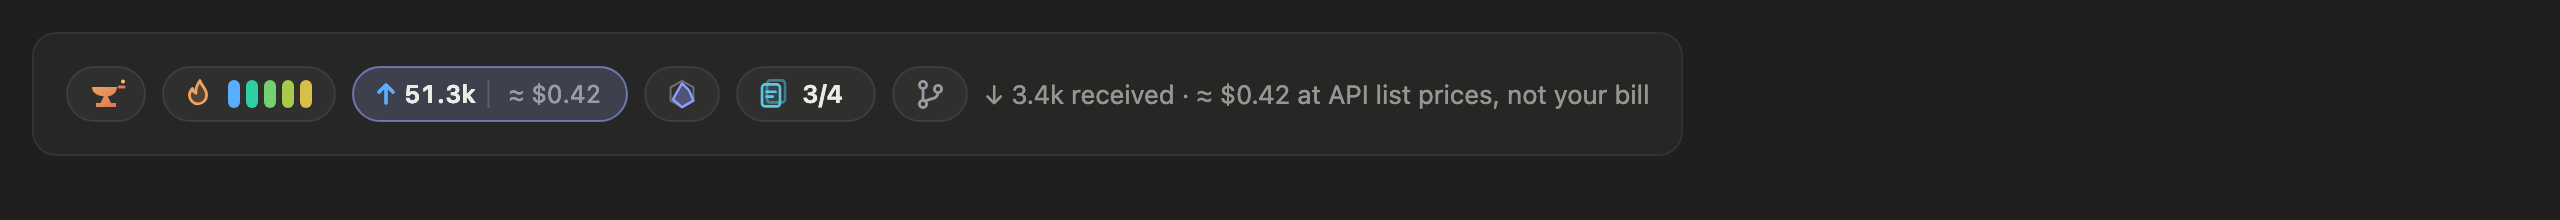
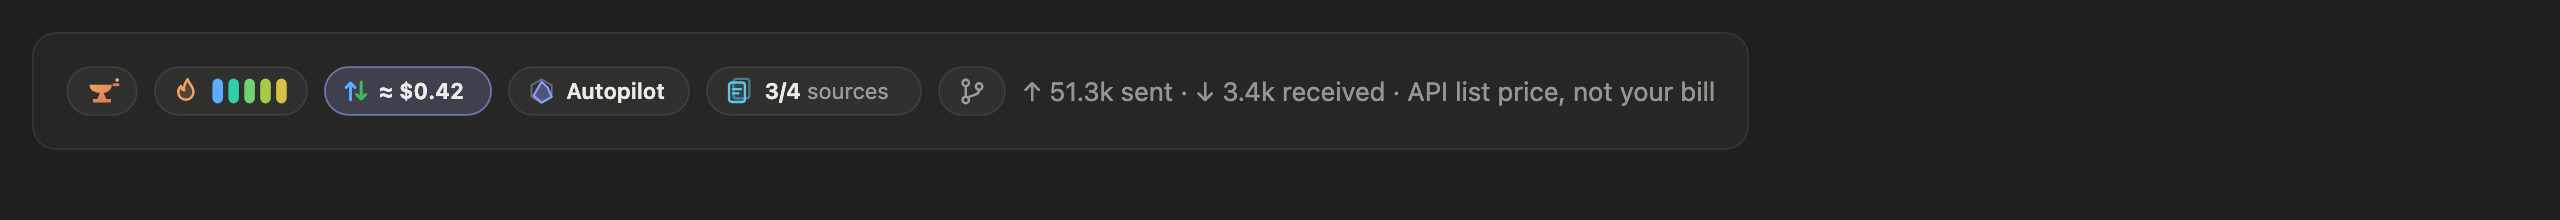
Rail: slimmer pills; the tokens pill shows the cost alone
Every pill is shown at 0.88 of its drawing, about 24px tall, so the full
rail is about 590px instead of 790. The tokens pill shows a small up and
down glyph and the cost; the tokens sent and received are in its
caption, with the note that the cost is API list price.

Changed region(s): [[0.0312, 0.3, 0.6875, 0.5727], [0.3438, 0.3, 0.375, 0.3273], [0.3125, 0.5455, 0.3438, 0.5727]]

diff --git a/hooks/rail-art.ts b/hooks/rail-art.ts
@@ -25,6 +25,9 @@ export type RailArtFigures = {
 }
 
 const HEIGHT = 28
+// The pills are drawn at 28px and shown at 0.88 of that, icons and words
+// alike, so the rail stays a slim row beside the composer.
+const SCALE = 0.88
 const SANS = `-apple-system, BlinkMacSystemFont, 'SF Pro Text', system-ui, sans-serif`
 const ROUNDED = `ui-rounded, 'SF Pro Rounded', -apple-system, system-ui, sans-serif`
 const BARS = ['#5aaeff', '#2fcfa6', '#74d16f', '#a8c94a', '#d8bf45']
@@ -51,11 +54,9 @@ function compact(count: number): string {
   return String(count)
 }
 
-// Sent tokens go up (blue), received come down (green).
-function arrow(x: number, mid: number, isUp: boolean): string {
-  const color = isUp ? '#5aaeff' : '#3fb950'
-  const path = isUp ? 'M5 11V2M1.5 5.5 5 2l3.5 3.5' : 'M5 2v9M1.5 7.5 5 11l3.5-3.5'
-  return `<path transform="translate(${x} ${mid - 6.5})" d="${path}" fill="none" stroke="${color}" stroke-width="1.6" stroke-linecap="round" stroke-linejoin="round"/>`
+// Tokens both ways, as one glyph: up (blue) beside down (green).
+function updown(x: number, mid: number): string {
+  return `<path transform="translate(${x} ${mid - 6})" d="M3 11V1.5M.5 4 3 1.5 5.5 4" fill="none" stroke="#5aaeff" stroke-width="1.5" stroke-linecap="round" stroke-linejoin="round"/><path transform="translate(${x + 6} ${mid - 6})" d="M3 1v9.5M.5 8 3 10.5 5.5 8" fill="none" stroke="#3fb950" stroke-width="1.5" stroke-linecap="round" stroke-linejoin="round"/>`
 }
 
 function anvil(x: number, y: number): string {
@@ -87,9 +88,9 @@ function branch(x: number, y: number, isOn: boolean): string {
 }
 
 // The pills that can give up their words for the rail to fit one row, in the
-// order they do: four to their icon, then the tokens to what was sent and the
-// cost (what came back moves to the caption). The cache gauge never does.
-export const COMPACTABLE = ['brand', 'worktree', 'sources', 'dials', 'tokens'] as const
+// order they do, down to their icon (sources to its count). The cache gauge
+// and the cost never do.
+export const COMPACTABLE = ['brand', 'worktree', 'sources', 'dials'] as const
 export type Compactable = (typeof COMPACTABLE)[number]
 
 export function railArt(figures: RailArtFigures, iconOnly: ReadonlySet<Compactable> = new Set()): RailPill[] {
@@ -98,13 +99,15 @@ export function railArt(figures: RailArtFigures, iconOnly: ReadonlySet<Compactab
 
   const pill = (id: string, width: number, tab: RailPill['tab'], caption: string, draw: (left: number) => string) => {
     const whole = Math.ceil(width)
+    const shown = Math.ceil(whole * SCALE)
+    const tall = Math.round(HEIGHT * SCALE)
     const svg = (isHot: boolean) => {
       const inner = `<rect x="0.5" y="0.5" width="${whole - 1}" height="${HEIGHT - 1}" rx="${(HEIGHT - 1) / 2}" class="pill${isHot ? ' hot' : ''}"/>${draw(0)}`
       // Theme colours are custom properties, which a presentation attribute
       // does not read everywhere; a style declaration does.
-      return `<svg xmlns="http://www.w3.org/2000/svg" width="${whole}" height="${HEIGHT}" viewBox="0 0 ${whole} ${HEIGHT}">${STYLE}${DEFS}${paint(inner)}</svg>`
+      return `<svg xmlns="http://www.w3.org/2000/svg" width="${shown}" height="${tall}" viewBox="0 0 ${whole} ${HEIGHT}">${STYLE}${DEFS}${paint(inner)}</svg>`
     }
-    pills.push({ id, tab, caption, width: whole, height: HEIGHT, source: svg(false), hotSource: svg(true) })
+    pills.push({ id, tab, caption, width: shown, height: tall, source: svg(false), hotSource: svg(true) })
   }
 
   {
@@ -134,21 +137,12 @@ export function railArt(figures: RailArtFigures, iconOnly: ReadonlySet<Compactab
     const sent = compact(figures.tokens.input)
     const received = compact(figures.tokens.output)
     const cost = figures.costUsd === null ? null : `≈ $${figures.costUsd.toFixed(2)}`
-    const isShort = iconOnly.has('tokens')
-    const outX = 12 + 14 + textWidth(sent, 12.5, true) + 12
-    const costX = isShort ? outX : outX + 14 + textWidth(received, 12.5, true) + 10
-    const width = (cost === null ? costX - 10 : costX + 10 + textWidth(cost, 12.5)) + 12
-    const caption = isShort
-      ? `↓ ${received} received` + (cost === null ? '' : ` · ${cost} at API list prices, not your bill`)
-      : cost === null
-        ? `${sent} tokens sent, ${received} received`
-        : `${cost} at API list prices, not your bill`
-    pill('tokens', width, 'context', caption, left => {
-      const text = (x: number, value: string) => `<text x="${left + x}" y="${mid + 4.4}" font-family="${SANS}" font-size="12.5" font-weight="600" fill="var(--text)" class="num">${value}</text>`
-      const spend = cost === null ? '' : `<rect x="${left + costX - 0.5}" y="${mid - 7}" width="1" height="14" fill="var(--pillLine)"/><text x="${left + costX + 10}" y="${mid + 4.4}" font-family="${SANS}" font-size="12.5" fill="var(--dim)" class="num">${escape(cost)}</text>`
-      const back = isShort ? '' : `${arrow(left + outX, mid, false)}${text(outX + 14, received)}`
-      return `${arrow(left + 12, mid, true)}${text(12 + 14, sent)}${back}${spend}`
-    })
+    // The cost when Claude Code has one, the tokens sent when it has not; the
+    // tokens either way under the pointer.
+    const label = cost ?? sent
+    const width = 12 + 12 + 7 + textWidth(label, 12.5, true) + 14
+    const caption = `↑ ${sent} sent · ↓ ${received} received` + (cost === null ? '' : ' · API list price, not your bill')
+    pill('tokens', width, 'context', caption, left => `${updown(left + 12, mid)}<text x="${left + 12 + 12 + 7}" y="${mid + 4.4}" font-family="${SANS}" font-size="12.5" font-weight="600" fill="var(--text)" class="num">${escape(label)}</text>`)
   }
 
   {

diff --git a/tests/pane.test.ts b/tests/pane.test.ts
@@ -98,9 +98,9 @@ test('on the desktop each rail pill is a picture whose hover the surface lights 
   // hidden, for the surface to reveal on hover: no hook, nothing moves.
   expect(await keysOf(band, /^rail-.*-press$/)).toEqual(['rail-brand-press', 'rail-cache-press', 'rail-tokens-press', 'rail-dials-press', 'rail-sources-press', 'rail-worktree-press'])
   const drawn = JSON.stringify(await band.drawn())
-  expect(drawn).toContain('>112k<')
-  expect(drawn).toContain('>1.6k<')
-  expect(drawn).toContain('≈ $0.42')
+  // The tokens pill shows the cost alone; the tokens wait in its caption.
+  expect(drawn).toContain('>≈ $0.42<')
+  expect(drawn).not.toContain('>112k<')
   // The pointer reaches the plugin through each pill's Client: entering lights
   // that pill and fills the caption row, which is always there.
   const lit = async () => {
@@ -124,7 +124,7 @@ test('on the desktop each rail pill is a picture whose hover the surface lights 
     await band.redraw()
   }
   await point('tokens', 'enter')
-  expect(await lit()).toEqual({ hot: ['tokens'], caption: '≈ $0.42 at API list prices, not your bill' })
+  expect(await lit()).toEqual({ hot: ['tokens'], caption: '↑ 112k sent · ↓ 1.6k received · API list price, not your bill' })
   // One row: the caption sits beside the pills, and nothing wraps.
   const row = byKey(await band.drawn(), 'rail-row') as { props: Record<string, unknown>; children: { props: { key?: string } }[] }
   expect(row.props).toMatchObject({ flexWrap: 'nowrap', overflow: 'hidden' })
@@ -163,28 +163,27 @@ test('on the desktop the rail fits its one row: the least needed pills give up t
     })
     const tree = await band.drawn()
     const ids = ['brand', 'cache', 'tokens', 'dials', 'sources', 'worktree']
-    const svgs = ids.map(id => (byKey(tree, `drawn-rail-${id}-press`) as { children: { props: { source: string; width: number; alt: string } }[] }).children[0]!.props)
+    const svgs = ids.map(id => (byKey(tree, `drawn-rail-${id}-press`) as { children: { props: { source: string; width: number; height: number; alt: string } }[] }).children[0]!.props)
     const width = svgs.reduce((sum, svg) => sum + svg.width, 0) + (svgs.length - 1) * 7
     const worded = Object.fromEntries(ids.map((id, index) => [id, /<text/.test(svgs[index]!.source) && !(id === 'sources' && !svgs[index]!.source.includes(' sources'))]))
     return { width, worded, svgs }
   }
   // Wide: every pill keeps its words.
   const wide = await at(200)
+  // Slim: every pill under 25px tall, and all six whole fit 120 columns.
+  expect(Math.max(...wide.svgs.map(svg => svg.height))).toBeLessThanOrEqual(25)
+  expect((await at(120)).worded).toEqual({ brand: true, cache: false, tokens: true, dials: true, sources: true, worktree: true })
+  expect((await at(120)).width).toBeLessThanOrEqual((120 - 3) * 7)
   expect(wide.worded).toEqual({ brand: true, cache: false, tokens: true, dials: true, sources: true, worktree: true })
-  // About 700px: the wordmark goes first, and the row fits.
-  const mid = await at(100)
-  expect(mid.width).toBeLessThanOrEqual((100 - 3) * 7)
-  expect(mid.worded.brand).toBe(false)
-  expect(mid.worded.tokens).toBe(true)
-  // Narrow: every pill that can is an icon, and the tokens keep what was
-  // sent and the cost; what came back moves to the caption. It still fits.
-  const narrow = await at(70)
-  expect(narrow.width).toBeLessThanOrEqual((70 - 3) * 7)
+  // About 560px: the wordmark goes first, and the row fits.
+  const mid = await at(80)
+  expect(mid.width).toBeLessThanOrEqual((80 - 3) * 7)
+  expect(mid.worded).toEqual({ brand: false, cache: false, tokens: true, dials: true, sources: true, worktree: true })
+  const narrow = await at(60)
+  expect(narrow.width).toBeLessThanOrEqual((60 - 3) * 7)
   expect(narrow.worded).toEqual({ brand: false, cache: false, tokens: true, dials: false, sources: false, worktree: false })
-  expect(narrow.svgs[2]!.source).toContain('≈ $0.42')
-  expect(narrow.svgs[2]!.source).toContain('>14.7M<')
-  expect(narrow.svgs[2]!.source).not.toContain('>67.0k<')
-  expect(narrow.svgs[2]!.alt).toBe('↓ 67.0k received · ≈ $0.42 at API list prices, not your bill')
+  expect(narrow.svgs[2]!.source).toContain('>≈ $0.42<')
+  expect(narrow.svgs[2]!.alt).toBe('↑ 14.7M sent · ↓ 67.0k received · API list price, not your bill')
   // An icon still says what it stands for when hovered.
   expect(narrow.svgs[3]!.alt).toBe('Dials: Balanced · tune how the agent works')
 })
